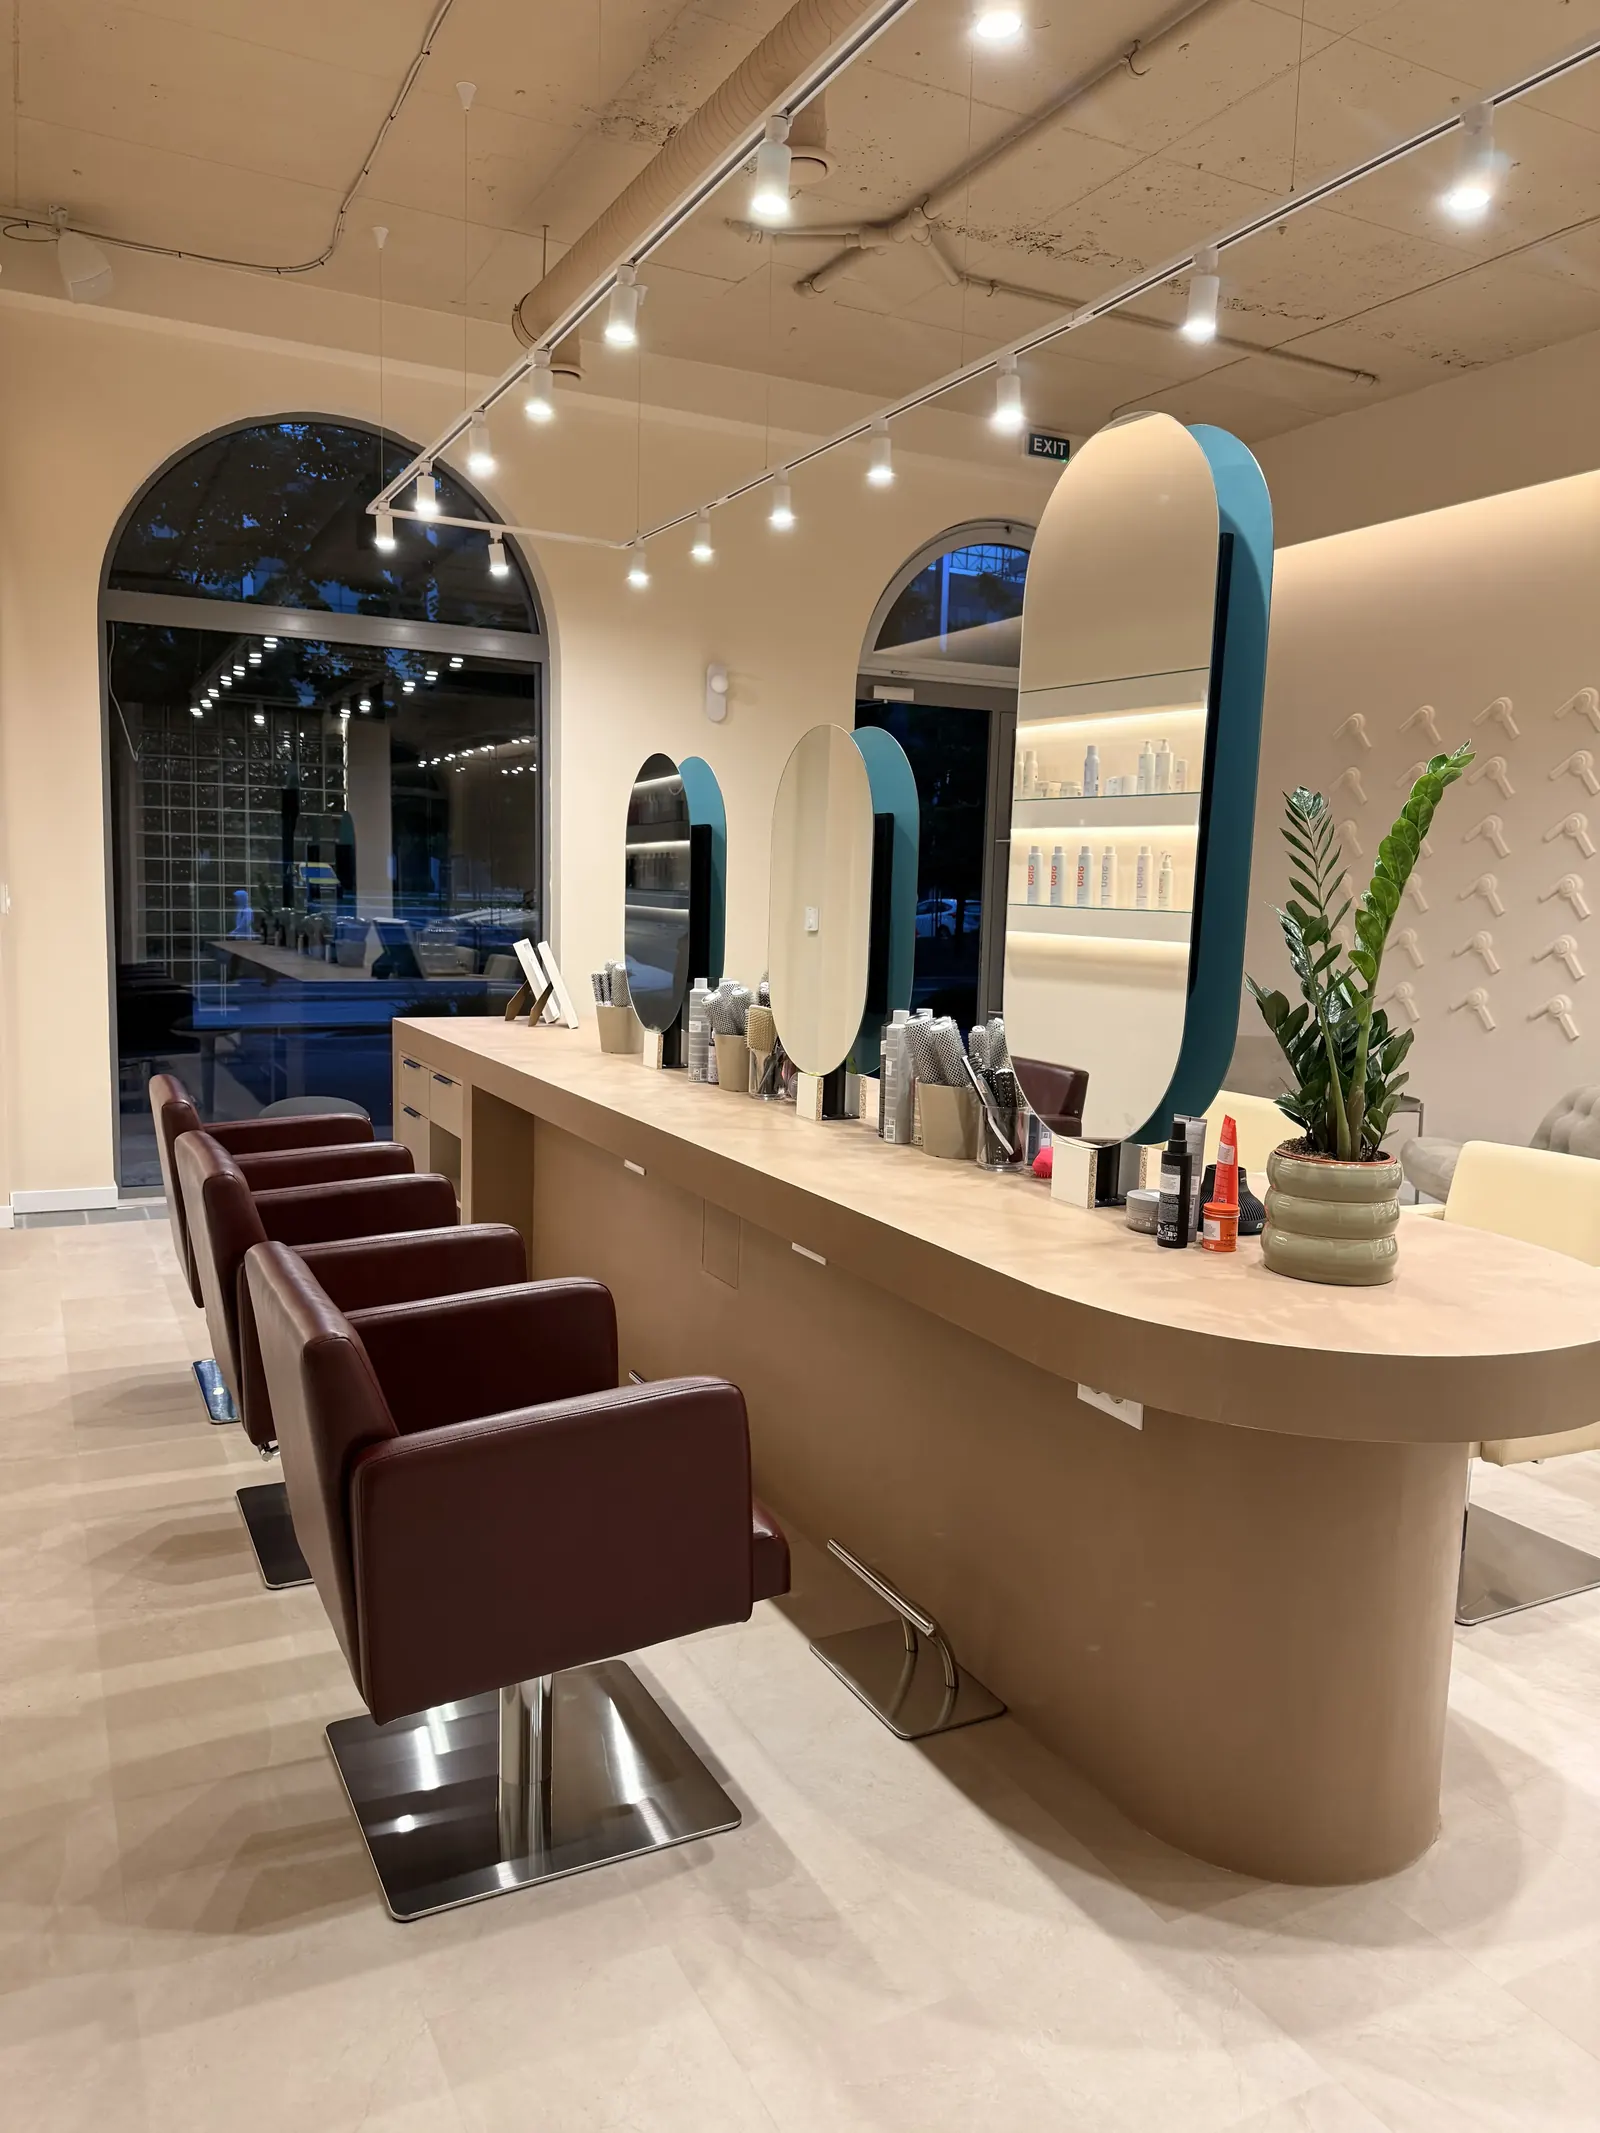
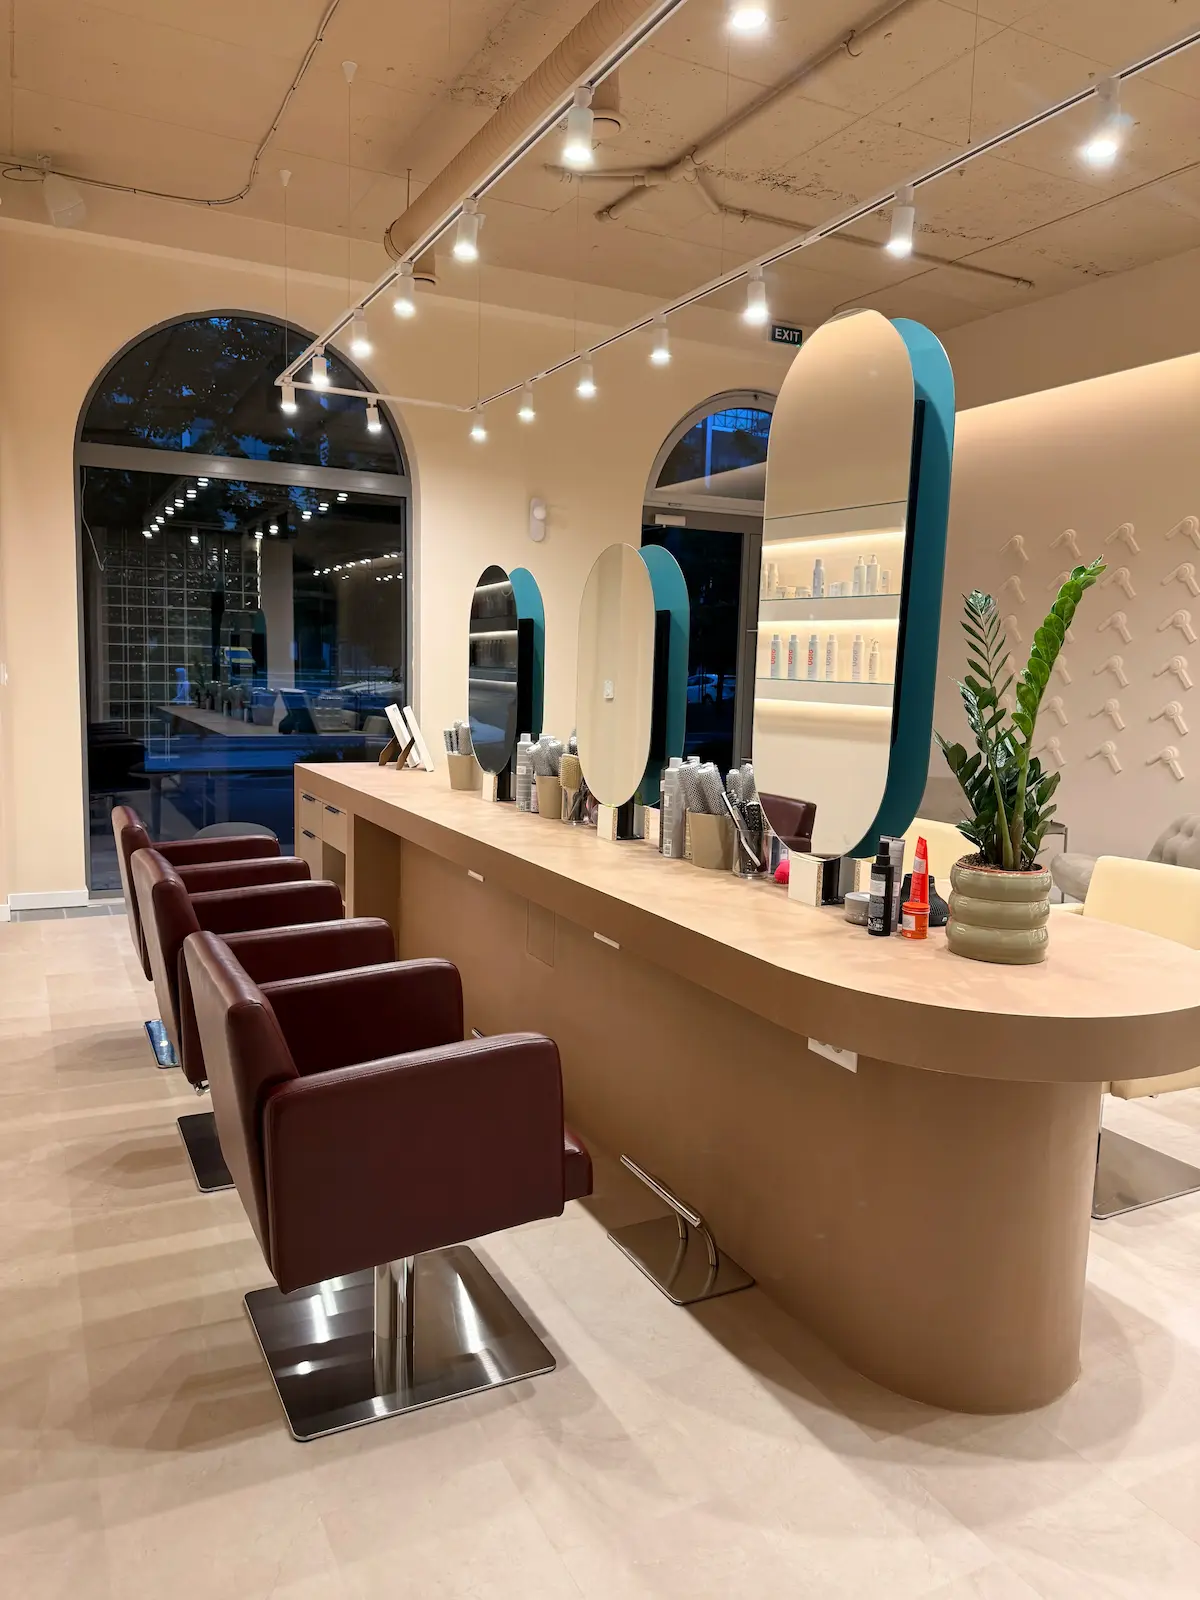
Hero: zameni s06.webp manjom verzijom (161 KB -> 104 KB)
Korisnik je optimizovao sliku - smanjio visinu jer je bila
nepotrebno velika za prikaz.

Nove dimenzije: 1200x1600 (od 1600x2133, -35%)
Velicina: 104 KB (od 161 KB, -35%)
Aspect ratio ostaje 3:4 (uklapa se u 4:5 hero okvir sa object-fit:cover)

Plus front-page.php: width/height atribute usaglaseni sa novim
dimenzijama (1200x1600) za pravilan layout reservation.

diff --git a/front-page.php b/front-page.php
@@ -43,7 +43,7 @@ $base_price = $lengths[0]['price']; // kratka = lowest "od" price
         <div style="border-radius:1000px;overflow:hidden;aspect-ratio:4/5;">
           <img src="<?php echo $tpl; ?>/assets/salon/s06.webp"
             alt="Dry65 walk-in salon na Novom Beogradu — feniranje bez zakazivanja"
-            width="1600" height="2133"
+            width="1200" height="1600"
             loading="eager" fetchpriority="high" decoding="async"
             style="width:100%;height:100%;object-fit:cover;object-position:center;display:block;">
         </div>